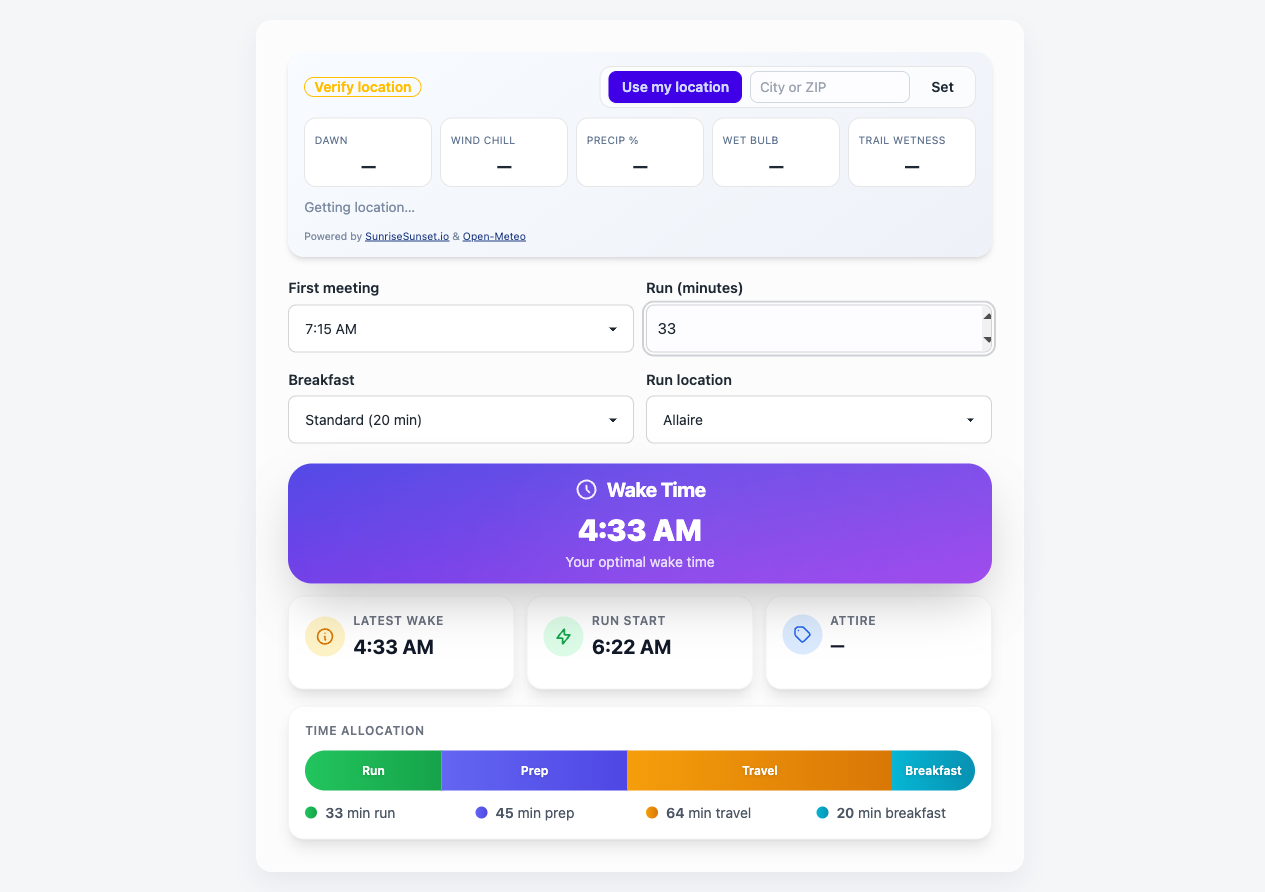
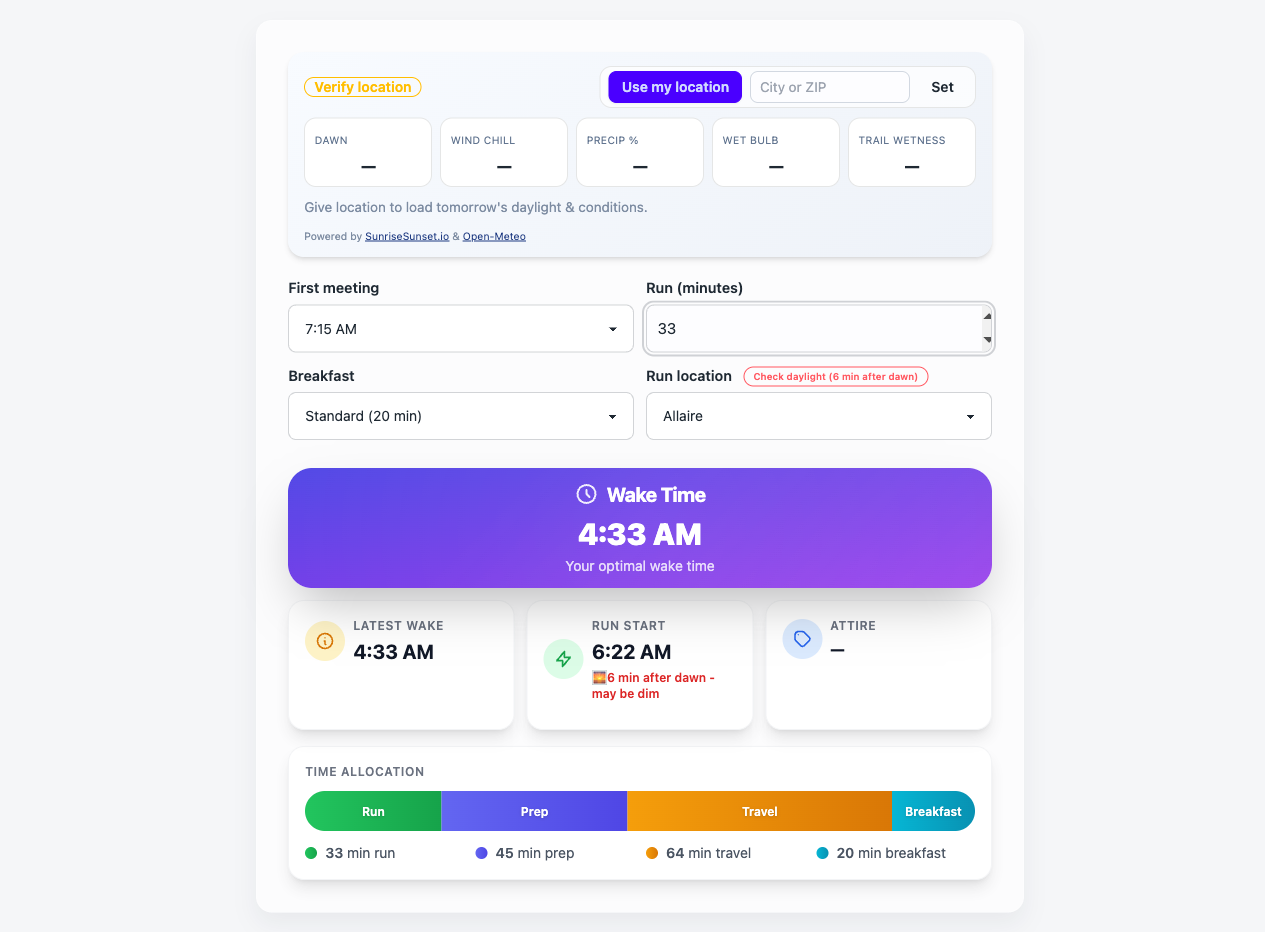
Actually fix gap and daylight warnings
- Reduced form gap from 1rem to 0.75rem and removed margin-bottom
- Added wake-display-section margin-top of only 0.5rem (was implicit 1rem+)
- Fixed daylight logic to show warnings within 30 min of dawn
- Shows '⚠ X min before dawn - need lights' when dark
- Shows '🌅 X min after dawn - may be dim' when just after dawn
- Exposed functions for testing to verify functionality

🤖 Generated with [Claude Code](https://claude.ai/code)

diff --git a/wake.html b/wake.html
@@ -79,7 +79,8 @@
       }
       form {
         display: grid;
-        gap: 1rem;
+        gap: 0.75rem;
+        margin-bottom: 0;
       }
       .form-row {
         display: grid;
@@ -153,6 +154,9 @@
         }
       }
 
+      .wake-display-section {
+        margin-top: 0.5rem;
+      }
       .wake-hero-card {
         position: relative;
         overflow: hidden;
@@ -942,20 +946,34 @@
           const dawnTotalMinutes = dawnHours * 60 + dawnMins;
 
           // Calculate difference (no buffer)
-          const minutesBeforeDawn = dawnTotalMinutes - (runStartMinutes % MINUTES_PER_DAY);
+          const minutesFromDawn = (runStartMinutes % MINUTES_PER_DAY) - dawnTotalMinutes;
 
-          if (minutesBeforeDawn > 0) {
-            // Running before dawn
-            if (badge) {
-              badge.classList.remove('hidden');
-              badge.textContent = `Check daylight (${minutesBeforeDawn} min before dawn)`;
-            }
-            if (warning) {
-              warning.classList.remove('hidden');
-              warning.textContent = `⚠ ${minutesBeforeDawn} min before dawn`;
+          // Always show the daylight info if we're within 30 minutes of dawn
+          if (Math.abs(minutesFromDawn) <= 30) {
+            if (minutesFromDawn < 0) {
+              // Running before dawn (dark)
+              const minBefore = Math.abs(minutesFromDawn);
+              if (badge) {
+                badge.classList.remove('hidden');
+                badge.textContent = `Check daylight (${minBefore} min before dawn)`;
+              }
+              if (warning) {
+                warning.classList.remove('hidden');
+                warning.textContent = `⚠ ${minBefore} min before dawn - need lights`;
+              }
+            } else {
+              // Running just after dawn (might still be dim)
+              if (badge) {
+                badge.classList.remove('hidden');
+                badge.textContent = `Check daylight (${minutesFromDawn} min after dawn)`;
+              }
+              if (warning) {
+                warning.classList.remove('hidden');
+                warning.textContent = `🌅 ${minutesFromDawn} min after dawn - may be dim`;
+              }
             }
           } else {
-            // Running after dawn
+            // Running well after dawn, no concern
             if (badge) badge.classList.add('hidden');
             if (warning) warning.classList.add('hidden');
           }
@@ -1756,6 +1774,17 @@
           initAwareness();
           updateLocationHeadlamp();
         }
+
+        // Expose for testing
+        window.currentDawnDate = currentDawnDate;
+        window.updateLocationHeadlamp = updateLocationHeadlamp;
+        window.setTestDawn = (hours, minutes) => {
+          const date = new Date();
+          date.setHours(hours, minutes, 0, 0);
+          currentDawnDate = date;
+          window.currentDawnDate = date;
+          updateLocationHeadlamp();
+        };
       })();
     </script>
   </body>

diff --git a/test-visual.js b/test-visual.js
@@ -7,9 +7,15 @@ const { chromium } = require('playwright');
   await page.goto('file://' + __dirname + '/wake.html');
   await page.setViewportSize({ width: 1280, height: 800 });
 
-  // First get location for dawn data
-  await page.click('text="Use my location"');
-  await page.waitForTimeout(2000); // Wait for location and dawn data
+  // Wait for page to load fully
+  await page.waitForTimeout(500);
+
+  // Inject a dawn time for testing (6:16 AM)
+  await page.evaluate(() => {
+    if (window.setTestDawn) {
+      window.setTestDawn(6, 16);
+    }
+  });
 
   // Fill in the form to test daylight warning (early meeting = early run)
   await page.selectOption('#firstMeeting', '07:15');
@@ -28,13 +34,21 @@ const { chromium } = require('playwright');
   console.log('Latest wake:', await page.textContent('#latestWake'));
   console.log('Run start:', await page.textContent('#runStart'));
 
-  // Check if daylight check badge is visible
+  // Check if daylight warnings are visible
   const badge = await page.locator('#locHeadlamp');
-  const isVisible = await badge.isVisible();
-  if (isVisible) {
-    console.log('Daylight check badge:', await badge.textContent());
-  } else {
-    console.log('Daylight check badge: Not visible (running after dawn)');
+  const warning = await page.locator('#daylightWarning');
+
+  const badgeVisible = await badge.isVisible();
+  const warningVisible = await warning.isVisible();
+
+  if (badgeVisible) {
+    console.log('Location badge:', await badge.textContent());
+  }
+  if (warningVisible) {
+    console.log('Daylight warning:', await warning.textContent());
+  }
+  if (!badgeVisible && !warningVisible) {
+    console.log('No daylight warnings (running well after dawn)');
   }
 
   await browser.close();
